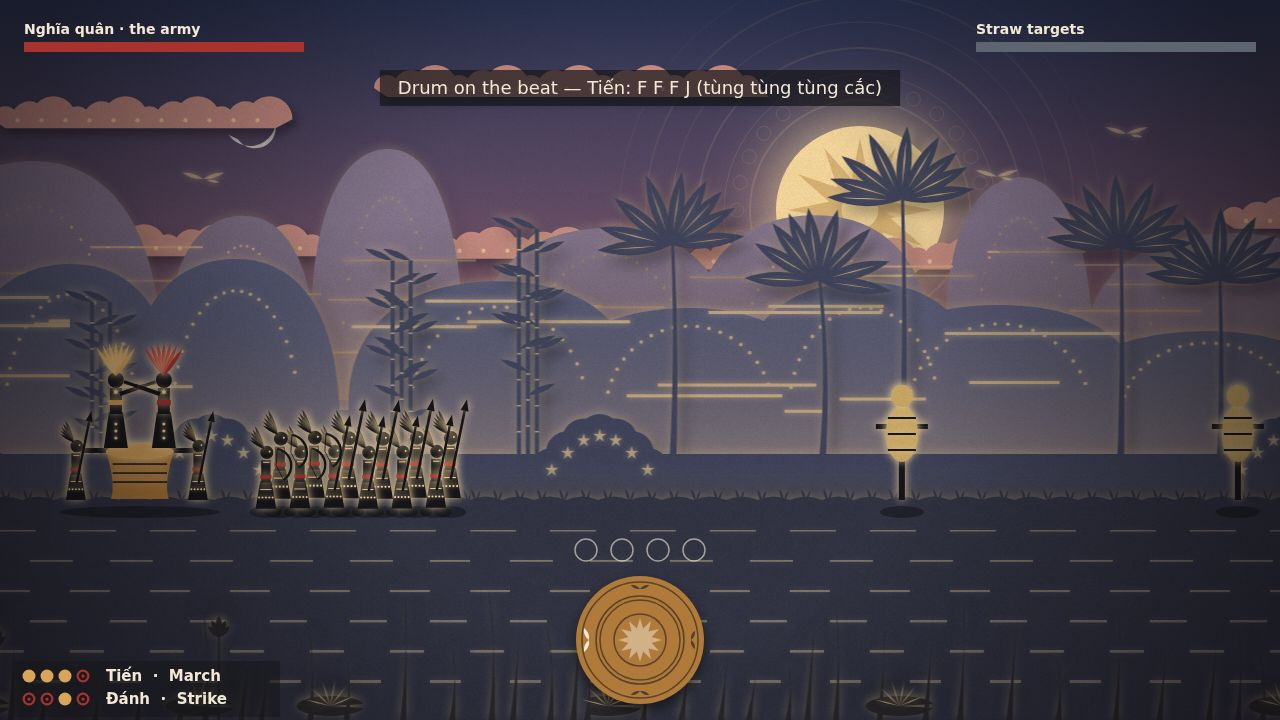
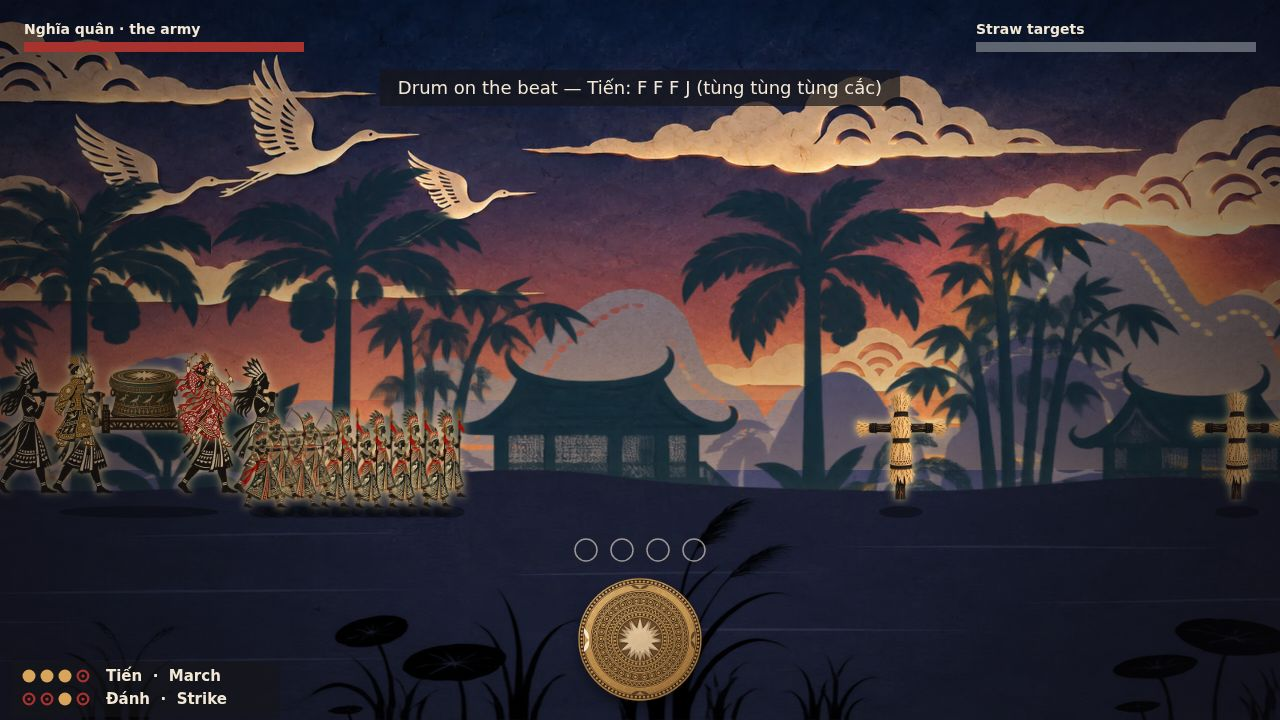
Bronze Drum: verify and tune the delivered art
Checked the 51 generated images: sizes and alpha match the requests,
figures face the right way, the logo's diacritics are correct. Fixes
for how the game uses them:

- Web copies: build_web_art.py writes WebP copies scaled to the size the
  game draws (3.2 MB instead of 61 MB of PNG masters); the manifest points
  at them and only they are published (deploy 4.9 MB).
- The painted parallax layers are tinted to each chapter's light and
  pre-scaled once per chapter, keeping the frame rate where it was.
- The sisters stand in the howdah behind its rail, and at the ends of
  the palanquin with the drum between them, instead of covering it.
- Chapter cards show their art as a band above the text.

Claude-Session: https://claude.ai/code/session_01CELHphGVNpXDtXzpf9E6M6

diff --git a/bronzedrum/game/src/render.js b/bronzedrum/game/src/render.js
@@ -12,6 +12,8 @@ export const U = 48; // pixels per field unit
 const GROUND = 500;
 const ARMY_SCREEN_X = 470;
 const STRIP_W = 2560;
+// How strongly delivered layers are washed toward each chapter's light.
+const LAYER_TINT = { dawn: 0.35, day: 0.25, night: 0.55 };
 
 function rng(seed) {
   let s = seed >>> 0;
@@ -206,6 +208,7 @@ export class Renderer {
     this.cam = 0;
     this.particles = [];
     this.floaters = [];
+    this.lit = new Map(); // layers lit and scaled for this chapter only
     this.layers = {
       sky: this.buildSky(stage.sky),
       karstFar: this.buildKarst(true),
@@ -560,14 +563,40 @@ export class Renderer {
     if (STRIP_W - off < W) g.drawImage(img, STRIP_W - off, y);
   }
 
+  /**
+   * A delivered layer re-lit for this chapter. The painted layers are one
+   * colour for every chapter, so each is washed toward the colour its
+   * stand-in uses under this chapter's light (paper texture kept), once per
+   * chapter.
+   */
+  litLayer(id, img) {
+    // Cached per chapter and per screen size: drawn at exactly the size it
+    // appears, so the frame loop never rescales a large image.
+    const key = `${id}@${this.stage.sky}@${this.pixel}`;
+    if (this.lit.has(key)) return this.lit.get(key);
+    const tint = { 'layer-karst-far': 'far0', 'layer-karst': 'far', 'layer-grove': 'mid2', 'layer-paddy': 'ground' }[id];
+    const h = Math.round(H * this.pixel);
+    const c = canvas(Math.round((img.width / img.height) * h), h);
+    const g = c.getContext('2d');
+    g.drawImage(img, 0, 0, c.width, c.height);
+    if (tint) {
+      g.globalCompositeOperation = 'source-atop';
+      g.globalAlpha = LAYER_TINT[this.stage.sky];
+      g.fillStyle = this.sky[tint];
+      g.fillRect(0, 0, c.width, c.height);
+    }
+    this.lit.set(key, c);
+    return c;
+  }
+
   layer(id, fallback, factor) {
-    const img = this.art.get(id);
+    let img = this.art.get(id);
     if (img) {
-      const h = H;
-      const w = (img.width / img.height) * h;
+      img = this.litLayer(id, img);
+      const w = img.width / this.pixel;
       const g = this.ctx;
       const off = (((this.cam * factor) % w) + w) % w;
-      for (let x = -off; x < W; x += w) g.drawImage(img, x, 0, w, h);
+      for (let x = -off; x < W; x += w) g.drawImage(img, x, 0, w, H);
     } else this.strip(fallback, factor);
   }
 
@@ -854,13 +883,25 @@ export class Renderer {
       const charging = view.battle.order && view.battle.order.command === 'charge';
       const step = charging ? Math.sin(t * 14) * 4 : Math.sin(view.beatFloat * Math.PI) * 1.5;
       const img = this.art.get('war-elephant');
-      if (img) this.sprite(img, x, y, 230, { bob: step });
-      else this.elephant(x, y - Math.abs(step), view);
+      if (img) {
+        // Painted art: the sisters stand inside the howdah, so draw them
+        // first and let its rail cover their legs.
+        this.sisters(x - 8, y - 165 - Math.abs(step), armL, armR, view, 30);
+        this.sprite(img, x, y, 230, { bob: step });
+        return;
+      }
+      this.elephant(x, y - Math.abs(step), view);
       this.sisters(x - 8, y - 160 - Math.abs(step), armL, armR, view);
     } else {
       const img = this.art.get('drum-bearers');
-      if (img) this.sprite(img, x, y, 150, { bob: 0 });
-      else {
+      if (img) {
+        // The sisters stand at the two ends of the palanquin deck, the drum
+        // showing between them.
+        this.sprite(img, x, y, 150, { bob: 0 });
+        this.sisters(x, y - 52, armL, armR, view, 64);
+        return;
+      }
+      {
         g.fillStyle = P.ink;
         g.fillRect(x - 60, y - 52, 120, 5); // carrying pole
         for (const px of [-64, 58]) this.warrior(x + px, y, 0.9, { bob: 0, thrust: 0 }, t, false);
@@ -893,13 +934,13 @@ export class Renderer {
     for (let k = 0; k < 3; k++) g.fillRect(x - r * 0.8, y - r * 0.55 + k * 9, r * 1.6, 1.5);
   }
 
-  sisters(x, y, armL, armR, view) {
+  sisters(x, y, armL, armR, view, spread = 30) {
     const g = this.ctx;
     const imgT = this.art.get('sister-trac');
     const imgN = this.art.get('sister-nhi');
     if (imgT && imgN) {
-      this.sprite(imgT, x - 30, y, 96, { bob: armL * 3 });
-      this.sprite(imgN, x + 30, y, 96, { bob: armR * 3 });
+      this.sprite(imgT, x - spread, y, 96, { bob: armL * 3 });
+      this.sprite(imgN, x + spread, y, 96, { bob: armR * 3 });
       return;
     }
     const one = (sx, arm, side, gold) => {
@@ -1072,7 +1113,8 @@ export class Renderer {
 
     g.setTransform(this.pixel, 0, 0, this.pixel, 0, 0);
     g.clearRect(0, 0, W, H);
-    const skyImg = this.art.get(`sky-${this.stage.sky}`);
+    const skyArt = this.art.get(`sky-${this.stage.sky}`);
+    const skyImg = skyArt ? this.litLayer(`sky-${this.stage.sky}`, skyArt) : null;
     g.drawImage(skyImg || this.layers.sky, 0, 0, W, H);
     g.translate(sx, 0);
     // Panels from back to front, with the lamp's haze between them.

diff --git a/bronzedrum/game/src/art.js b/bronzedrum/game/src/art.js
@@ -1,8 +1,10 @@
 // Delivered artwork. assets/manifest.json (generated from
 // design/source/build_requests.py) lists every requested image. Entries whose
-// status is "delivered" are loaded from assets/art/; everything else is drawn
+// status is "delivered" are loaded; everything else is drawn
 // by the procedural paper-cut stand-ins in render.js. Delivered production
-// sheets with runtime: false are reserved for later builds.
+// sheets with runtime: false are reserved for later builds. The game loads
+// the scaled WebP copy (a.web, from design/source/build_web_art.py) when there
+// is one; the PNG masters in assets/art/ are not published.
 
 export class Art {
   constructor() {
@@ -29,7 +31,7 @@ export class Art {
               resolve();
             };
             img.onerror = () => resolve();
-            img.src = `${base}${a.file}`;
+            img.src = `${base}${a.web || a.file}`;
           }),
       ),
     );

diff --git a/bronzedrum/game/src/main.js b/bronzedrum/game/src/main.js
@@ -215,8 +215,8 @@ function buildCards() {
     b.dataset.nav = '';
     b.disabled = i >= progress.unlocked;
     const img = art.get(`card-${s.id}`);
-    if (img) b.style.backgroundImage = `linear-gradient(rgba(242,232,213,0.82), rgba(242,232,213,0.92)), url(${img.src})`;
-    b.innerHTML = `<span class="num">Chapter ${i + 1}</span><span class="name"></span><span class="sub"></span><span class="intro"></span>`;
+    b.innerHTML = `${img ? '<span class="card-art" aria-hidden="true"></span>' : ''}<span class="num">Chapter ${i + 1}</span><span class="name"></span><span class="sub"></span><span class="intro"></span>`;
+    if (img) b.querySelector('.card-art').style.backgroundImage = `url(${img.src})`;
     b.querySelector('.name').textContent = s.title;
     b.querySelector('.sub').textContent = s.subtitle;
     b.querySelector('.intro').textContent = i < progress.unlocked ? s.intro : 'Win the chapter before to unlock.';

diff --git a/bronzedrum/game/styles.css b/bronzedrum/game/styles.css
@@ -69,6 +69,7 @@ body.reduce-motion .press-start { animation: none; }
   box-shadow: 8px 10px 0 rgba(0, 0, 0, 0.35);
   background-size: cover; background-position: center;
 }
+.card .card-art { display: block; height: 150px; margin: -18px -18px 4px; background-size: cover; background-position: center 60%; }
 .card .num { font: 700 15px var(--sans); color: var(--lacquer); letter-spacing: 0.2em; text-transform: uppercase; }
 .card .name { font: 700 26px var(--serif); line-height: 1.05; }
 .card .sub { font-size: 14px; color: #5a4a35; }

diff --git a/bronzedrum/design/source/build_web_art.py b/bronzedrum/design/source/build_web_art.py
@@ -1,0 +1,98 @@
+#!/usr/bin/env python3
+"""Make the web copies of Bronze Drum's in-game art.
+
+The delivered PNGs in game/assets/art/ are the masters, kept at the requested
+sizes. The game draws most of them far smaller (a 1536-pixel figure appears
+about 96 pixels tall), so this script writes WebP copies, scaled to twice the
+largest size the game draws them at, to game/assets/web/. The game loads only
+those, and only those are published.
+
+    python3 bronzedrum/design/source/build_web_art.py           # convert stale copies
+    python3 bronzedrum/design/source/build_web_art.py --check   # verify copies exist and are current
+
+Needs ffmpeg with libwebp. Run build_requests.py afterwards so the manifest
+points at the copies.
+"""
+
+from __future__ import annotations
+
+import subprocess
+import sys
+from pathlib import Path
+
+ROOT = Path(__file__).resolve().parents[2]
+ART = ROOT / "game" / "assets" / "art"
+WEB = ROOT / "game" / "assets" / "web"
+
+# Game id -> (scale filter, quality). Heights are twice the largest on-screen
+# height in render.js (or the full 1440-pixel canvas height at a device pixel
+# ratio of 2 for full-screen layers), so the art stays sharp on high-DPI screens.
+TARGETS = {
+    "sky-dawn": ("scale=-1:1080", 80),
+    "sky-day": ("scale=-1:1080", 80),
+    "sky-night": ("scale=-1:1080", 80),
+    "layer-karst-far": ("scale=-1:1080", 78),
+    "layer-karst": ("scale=-1:1080", 78),
+    "layer-grove": ("scale=-1:1080", 78),
+    "layer-paddy": ("scale=-1:1080", 78),
+    "layer-reeds": ("scale=-1:1080", 80),
+    "paper-fiber": ("scale=512:512", 80),
+    "sister-trac": ("scale=-1:384", 85),
+    "sister-nhi": ("scale=-1:384", 85),
+    "unit-spear": ("scale=-1:384", 85),
+    "unit-archer": ("scale=-1:384", 85),
+    "han-spear": ("scale=-1:384", 85),
+    "han-crossbow": ("scale=-1:384", 85),
+    "drum-bearers": ("scale=-1:400", 85),
+    "war-elephant": ("scale=-1:560", 85),
+    "fort-palisade": ("scale=-1:720", 85),
+    "straw-target": ("scale=-1:288", 85),
+    "hud-drum": ("scale=320:320", 88),
+    "logo": ("scale=1200:-1", 88),
+    "card-garden": ("scale=800:-1", 80),
+    "card-outpost": ("scale=800:-1", 80),
+    "card-luylau": ("scale=800:-1", 80),
+}
+
+
+def web_path(asset_id: str) -> Path:
+    return WEB / f"{asset_id}.webp"
+
+
+def stale(asset_id: str) -> bool:
+    src, out = ART / f"{asset_id}.png", web_path(asset_id)
+    return src.exists() and (not out.exists() or out.stat().st_mtime < src.stat().st_mtime)
+
+
+def convert(asset_id: str) -> None:
+    scale, quality = TARGETS[asset_id]
+    src = ART / f"{asset_id}.png"
+    WEB.mkdir(parents=True, exist_ok=True)
+    subprocess.run(
+        ["ffmpeg", "-y", "-loglevel", "error", "-i", str(src), "-vf", f"{scale}:flags=lanczos",
+         "-c:v", "libwebp", "-pix_fmt", "yuva420p", "-quality", str(quality),
+         "-compression_level", "6", str(web_path(asset_id))],
+        check=True,
+    )
+
+
+def main() -> int:
+    missing_master = [a for a in TARGETS if not (ART / f"{a}.png").exists()]
+    if "--check" in sys.argv:
+        bad = [a for a in TARGETS if (ART / f"{a}.png").exists() and not web_path(a).exists()]
+        for a in bad:
+            print(f"missing web copy: assets/web/{a}.webp (run build_web_art.py)")
+        return 1 if bad else 0
+    for a in TARGETS:
+        if a in missing_master:
+            continue
+        if stale(a) or "--force" in sys.argv:
+            convert(a)
+            print(f"wrote assets/web/{a}.webp ({web_path(a).stat().st_size // 1024} KB)")
+    total = sum(web_path(a).stat().st_size for a in TARGETS if web_path(a).exists())
+    print(f"web art: {total / 1e6:.1f} MB for {len(TARGETS) - len(missing_master)} images")
+    return 0
+
+
+if __name__ == "__main__":
+    sys.exit(main())

diff --git a/bronzedrum/design/source/build_requests.py b/bronzedrum/design/source/build_requests.py
@@ -615,10 +615,16 @@ def build_doc() -> str:
 
 
 def build_manifest() -> str:
-    assets = [
-        {"id": r["asset"], "request": r["id"], "file": r["file"], "status": r["status"], "section": r["section"], "runtime": bool(r["standin"])}
-        for r in REQUESTS if r["asset"]
-    ]
+    assets = []
+    for r in REQUESTS:
+        if not r["asset"]:
+            continue
+        entry = {"id": r["asset"], "request": r["id"], "file": r["file"], "status": r["status"],
+                 "section": r["section"], "runtime": bool(r["standin"])}
+        # The game loads the web copy made by build_web_art.py, not the master.
+        if entry["runtime"] and (ROOT / "game" / "assets" / "web" / f"{r['asset']}.webp").exists():
+            entry["web"] = f"web/{r['asset']}.webp"
+        assets.append(entry)
     return json.dumps({"generatedBy": "bronzedrum/design/source/build_requests.py", "assets": assets}, indent=2, ensure_ascii=False) + "\n"
 
 

diff --git a/bronzedrum/README.md b/bronzedrum/README.md
@@ -16,8 +16,8 @@ Play the prototype at https://hoai2k.github.io/mini/bronzedrum/.
   [`design/music-requests.md`](design/music-requests.md): the sound effects
   (generated with ElevenLabs) and the prompts for the score, both built from
   [`design/source/build_audio.py`](design/source/build_audio.py).
-- [`design/screens/`](design/screens/): screenshots of the prototype's
-  procedural stand-in art.
+- [`design/screens/`](design/screens/): screenshots of the prototype with the
+  delivered art.
 - [`game/`](game/): the prototype itself, static ES modules with no build step.
 
 ## Run and check
@@ -29,6 +29,7 @@ node --test test/*.test.mjs     # rhythm reader and battle simulation
 node scripts/check.mjs          # syntax and manifest ids
 python3 ../design/source/build_requests.py --check
 python3 ../design/source/build_audio.py --check
+python3 ../design/source/build_web_art.py --check
 ```
 
 ## Sound effects
@@ -67,6 +68,15 @@ are resampled from the generator's native output rather than generated at native
 The manifest's `runtime` flag distinguishes the 24 images used by the prototype
 from the 10 delivered puppet, effects and planned interface sheets. The latter
 remain available for production work without being downloaded at game startup.
+
+The PNGs in `game/assets/art/` are the masters, kept at the requested sizes.
+The game loads WebP copies scaled to the size it actually draws them at (3.2 MB
+in all, against 61 MB of masters). Only these copies are published. After
+delivering or replacing art, rerun
+[`design/source/build_web_art.py`](design/source/build_web_art.py) and then
+`build_requests.py`. The renderer also tints the painted parallax layers to
+each chapter's light (dawn, day, night), because one set of layers serves all
+three chapters.
 
 Delivered art is integrated through [`intake/`](intake/README.md). For each image:
 
